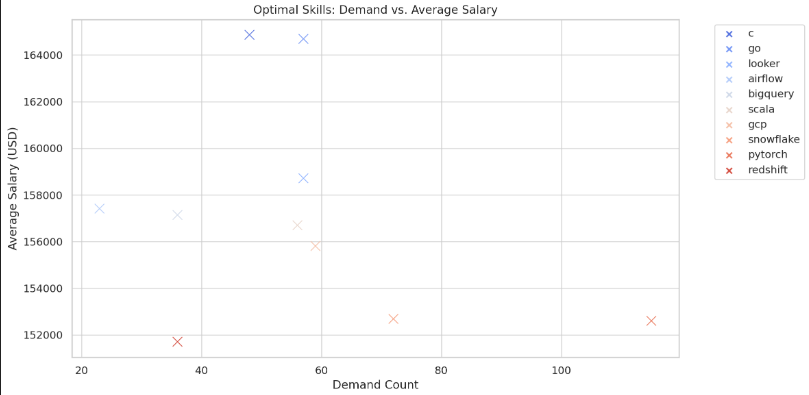
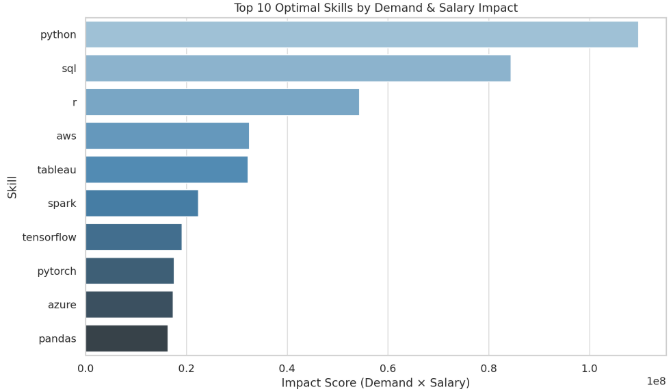
commit

diff --git a/README.md b/README.md
@@ -49,7 +49,7 @@ To identify the top paying remote jobs i filtered out the Data Scientist roles, 
 
 - Roles like Head of Data Science and Senior Data Scientist are prevalent among the top jobs. 
 
-![Top Paying Jobs](assets\png\top_paying_jobs.png)
+![Top Paying Jobs](assets/png/top_paying_jobs.png)
 *Graph Visualization for top 10 Data Science salaries, Generated using ChatGPT from my SQL query results.*
  ### 2. Top Paying Job Skills
  This query effectively highlights the top 10 highest-paying remote Data Scientist roles along with the skills needed for each. It's a great way to understand which companies are offering the best compensation and what skills you should focus on to qualify for those roles.
@@ -89,7 +89,8 @@ ORDER BY
 - Python and SQL are again near the top, affirming their dual status as high-paying and high-demand.
 
 - Other lucrative skills include R, Spark, and Hadoop—technologies common in big data and analytics roles.
-![Top Paying Job Skills](assets\png\top_highest_paying_job_skills.png)*Graph Visualization for top 10 Data Science Skills of highest paying jobs, Generated using ChatGPT from my SQL query results.*
+
+![Top Paying Job Skills](assets/png/top_highest_paying_job_skills.png)*Graph Visualization for top 10 Data Science Skills of highest paying jobs, Generated using ChatGPT from my SQL query results.*
 ### 3. Top Demand Skills
 To identify the top 10 most in-demand skills specifically for Data Scientist roles. I filtered the Data Scientist roles using CTEs, and then used Joins to connect the different tables on a common value. It helps identify which technical skills are most valuable and commonly expected by employers in this field.
 ```sql
@@ -118,7 +119,20 @@ GROUP BY
     skill_count DESC
 LIMIT 10;
 ```
-![Demand Skills](assets\png\top_demand_skills.png)*Graph Visualization for top 10 In-Demand Data Science Skills, Generated using ChatGPT from my SQL query results.*
+**Here's the insights gained from this:**
+
+- Python and SQL are must-haves for nearly any Data Scientist role, forming the foundation of technical skillsets.
+
+- Visualization tools (Tableau, Power BI) are in high demand, showing the need to communicate insights effectively.
+
+- Cloud and big data skills (AWS, Spark, Hadoop) are increasingly valued as companies scale their data operations.
+
+- Excel’s presence shows that not all tasks require advanced tools—sometimes simplicity is key.
+
+- Machine Learning knowledge is important, as shown by the inclusion of libraries like Scikit-learn.
+
+![Demand Skills](assets/png/top_demand_skills.png)
+*Graph Visualization for top 10 In-Demand Data Science Skills, Generated using ChatGPT from my SQL query results.*
 
 ### 4. Top Paying Skills
 To understand which skills are linked to higher salaries in Data Scientist roles, I filtered job postings specifically for Data Scientist titles and ensured that only entries with salary information were included. Then, I joined the skills tables to match each job with its required skills. By grouping the data by job title and skill, I was able to calculate the average salary per skill. Finally, I sorted the results by average salary to highlight the top 10 highest-paying skills.
@@ -141,7 +155,78 @@ ORDER BY
     avg_salary DESC
 LIMIT 10;
 ```
+**Here's Breakdown of what we gained from this:**
+- Big Data & Cloud skills (Spark, Hadoop, AWS) are not just in demand—they’re highly paid. These are key to handling large-scale production-grade data systems.
 
-![Top Paying Skills](assets\png\top_paying_skills.png)*Graph Visualization for top 10 Highest Paying Data Science Skills, Generated using ChatGPT from my SQL query results.*
+- Deep Learning frameworks (PyTorch, TensorFlow) lead to higher-paying roles, especially in AI and R&D domains.
+
+- DevOps/DataOps tools (Airflow, Kubernetes) are gaining importance, signaling that MLOps skills are a differentiator in higher salary brackets.
+
+- Excel and R, although more traditional tools, still command top salaries in specialized fields like finance, statistics, and healthcare analytics.
+
+![Top Paying Skills](assets/png/top_paying_skills.png)*Graph Visualization for top 10 Highest Paying Data Science Skills, Generated using ChatGPT from my SQL query results.*
+### 5. Optimal Skills
+In this query, I focused on remote Data Scientist jobs that include salary details. I then found out how often each skill appears (to see which are most in demand) and also calculated the average salary for jobs requiring each skill. After that, I filtered out skills that appeared in fewer than 20 job postings to keep the results meaningful. Finally, I sorted the list by demand to highlight the most useful and best-paying skills.
+```sql
+WITH skills_demand AS (
+    SELECT
+        skills_dim.skill_id,
+        skills_dim.skills,
+        COUNT(*) AS demand_count
+    FROM 
+        job_postings_fact
+    INNER JOIN skills_job_dim ON job_postings_fact.job_id = skills_job_dim.job_id
+    INNER JOIN skills_dim ON skills_job_dim.skill_id = skills_dim.skill_id
+    WHERE
+        job_title_short = 'Data Scientist' AND
+        salary_year_avg IS NOT NULL AND
+        job_work_from_home IS TRUE
+    GROUP BY
+        skills_dim.skill_id,
+        skills_dim.skills
+), 
+average_salary AS (
+    SELECT
+        skills_dim.skill_id,
+        skills_dim.skills,
+        ROUND(AVG(job_postings_fact.salary_year_avg), 0) AS avg_salary
+    FROM
+        job_postings_fact
+    INNER JOIN skills_job_dim ON job_postings_fact.job_id = skills_job_dim.job_id
+    INNER JOIN skills_dim  ON skills_job_dim.skill_id = skills_dim.skill_id
+    WHERE
+        job_title_short = 'Data Scientist' AND
+        salary_year_avg IS NOT NULL AND
+        job_work_from_home IS TRUE
+    GROUP BY 
+       skills_dim.skill_id,
+        skills_dim.skills
+)
+SELECT
+    skills_demand.skill_id,
+    skills_demand.skills,
+    skills_demand.demand_count,
+    avg_salary
+FROM    
+    skills_demand
+INNER JOIN average_salary ON skills_demand.skill_id = average_salary.skill_id
+WHERE 
+    demand_count > 20
+ORDER BY
+    demand_count DESC;
+```
+**Insights gained from this are:**
+- SQL and Python top the list as the most balanced skills — they are both highly in-demand and offer competitive salaries, making them essential for aspiring Data Scientists.
+
+- Excel and Tableau appear frequently, showing that data visualization and analysis tools are still very relevant in remote data roles.
+
+- R and TensorFlow show up less frequently but are linked to niche roles that can still pay well, especially in research or AI-heavy positions.
+
+![Optimal Skills](assets/png/optimal_skills.png)*Graph Visualization for Optimal Data Science Skills, Generated using ChatGPT from my SQL query results.*
 #   What I Learned
+Throughout this adventure, I've turbocharged my SQL toolkit with some serious firepower:
+
+- 🧩 Complex Query Crafting: Mastered the art of advanced SQL, merging tables like a pro and wielding WITH clauses for ninja-level temp table maneuvers.
+- 📊 Data Aggregation: Got cozy with GROUP BY and turned aggregate functions like COUNT() and AVG() into my data-summarizing sidekicks.
+- 💡 Analytical Wizardry: Leveled up my real-world puzzle-solving skills, turning questions into actionable, insightful SQL queries
 #   Conclusion
